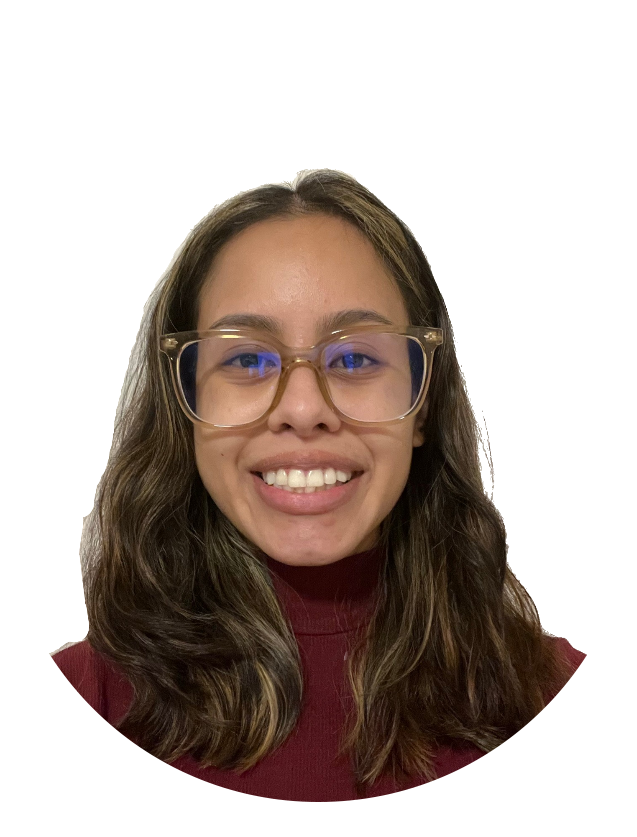
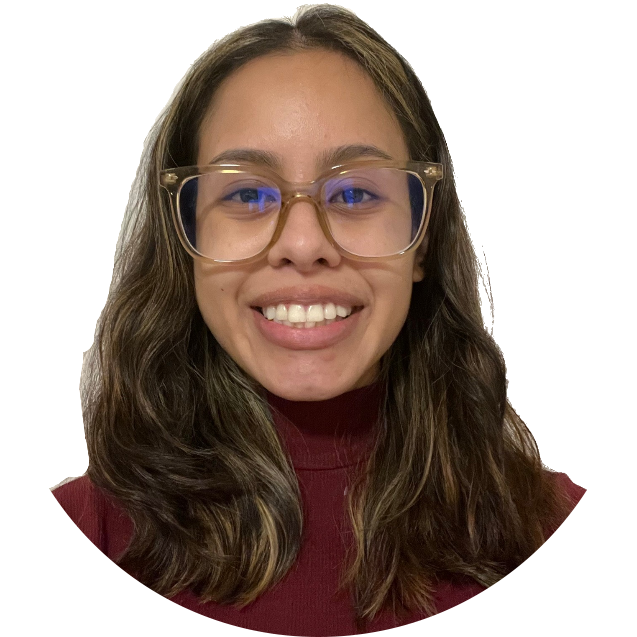
fixed images + small content fixes

diff --git a/BaristaBot/index.html b/BaristaBot/index.html
@@ -78,10 +78,13 @@
 							<h3>The Team</h3>
 							<span class="iconimage"><img src="images/ivonne_portrait.png" alt="Ivonne Munoz portrait"/></span>
 							<span class="iconimage"><img src="images/dan-2.png" alt="Dan Park portrait"/></span>
-							<span class="iconimage"><img src="images/charlotte_portrait.PNG" alt="Charlotte Ramiro portrait"/></span>
+							<span class="iconimage"><img src="images/charlotte_portrait.png" alt="Charlotte Ramiro portrait"/></span>
 							 <span class="iconimage"><img src="images/moises_portrait.png" alt="Moises portrait"/></span>
-							 <span class="iconimage"><img src="images/merwan_portrait.PNG" alt="Merwan portrait"/></span>
-							<span class="paragraph"> This project was made possible by the BaristaBot PIE Team: Ivonne Munoz, Daniel Park, Charlotte Ramiro, Moises Sabido Garcia, and Merwan Yeditha.</span>
+							 <span class="iconimage"><img src="images/merwan.PNG" alt="Merwan portrait"/></span>
+							<span class="paragraph"> This project was made possible by the BaristaBot PIE Team: Ivonne Munoz (Mechanical Engineering '23), 
+								Daniel Park (Engineering with Computing '24), Charlotte Ramiro (Electrical and Computer Engineering '24'), Moises Sabido Garcia 
+								(Mechanical Engineering '24'), and Merwan Yeditha (Engineering with Computing '24'), shown respectively left to right. 
+							</span>
 						</article>
 
 						<!-- Mechanical Subsystem -->

diff --git a/BaristaBot/assets/css/main.css b/BaristaBot/assets/css/main.css
@@ -1465,7 +1465,7 @@ input, select, textarea {
 			}
 
 				#header .logo .icon:before { /* size of icon */
-					font-size: 1.75rem;
+					font-size: 10rem;
 				}
 
 			#header .content .inner {
